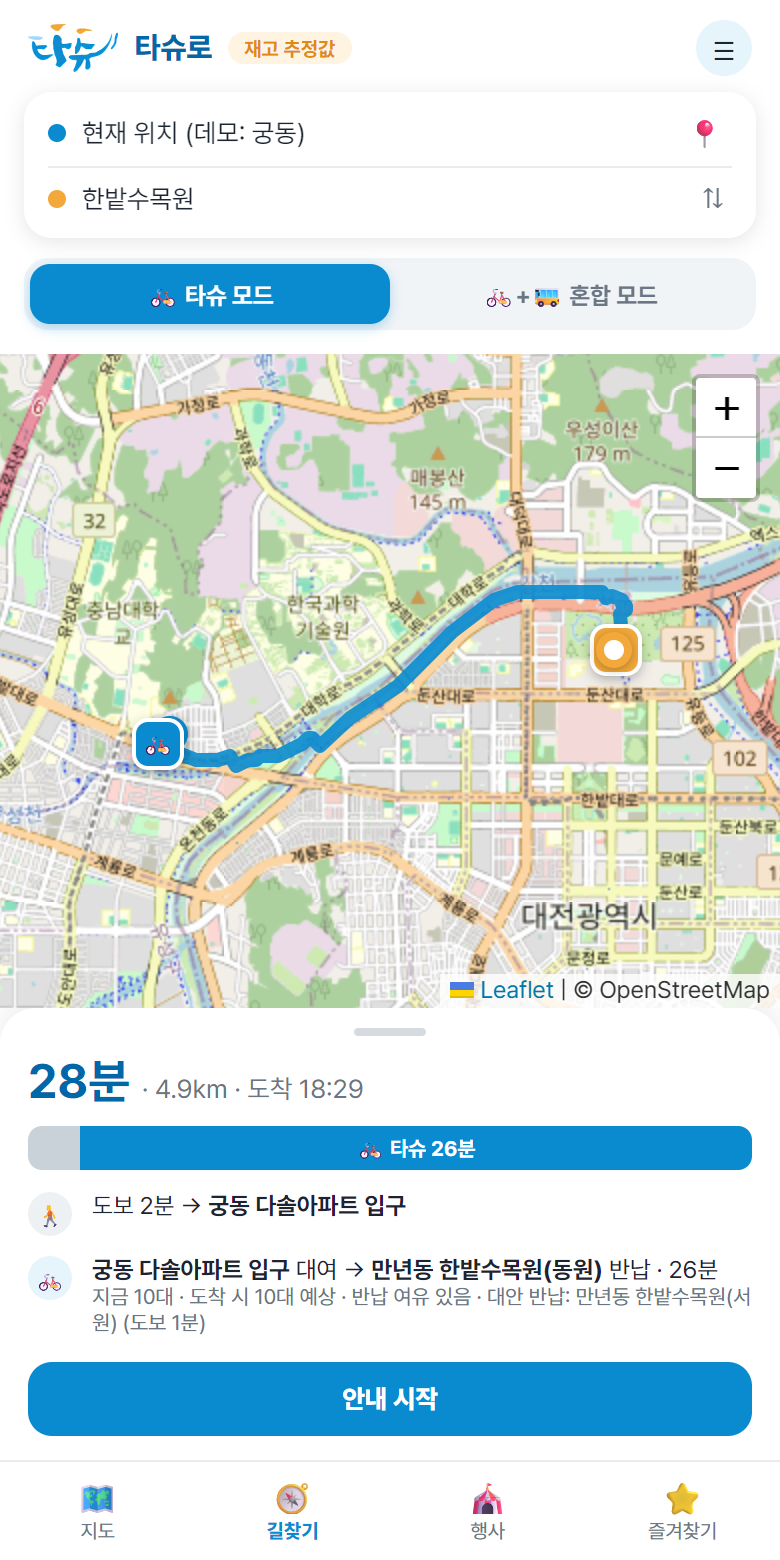
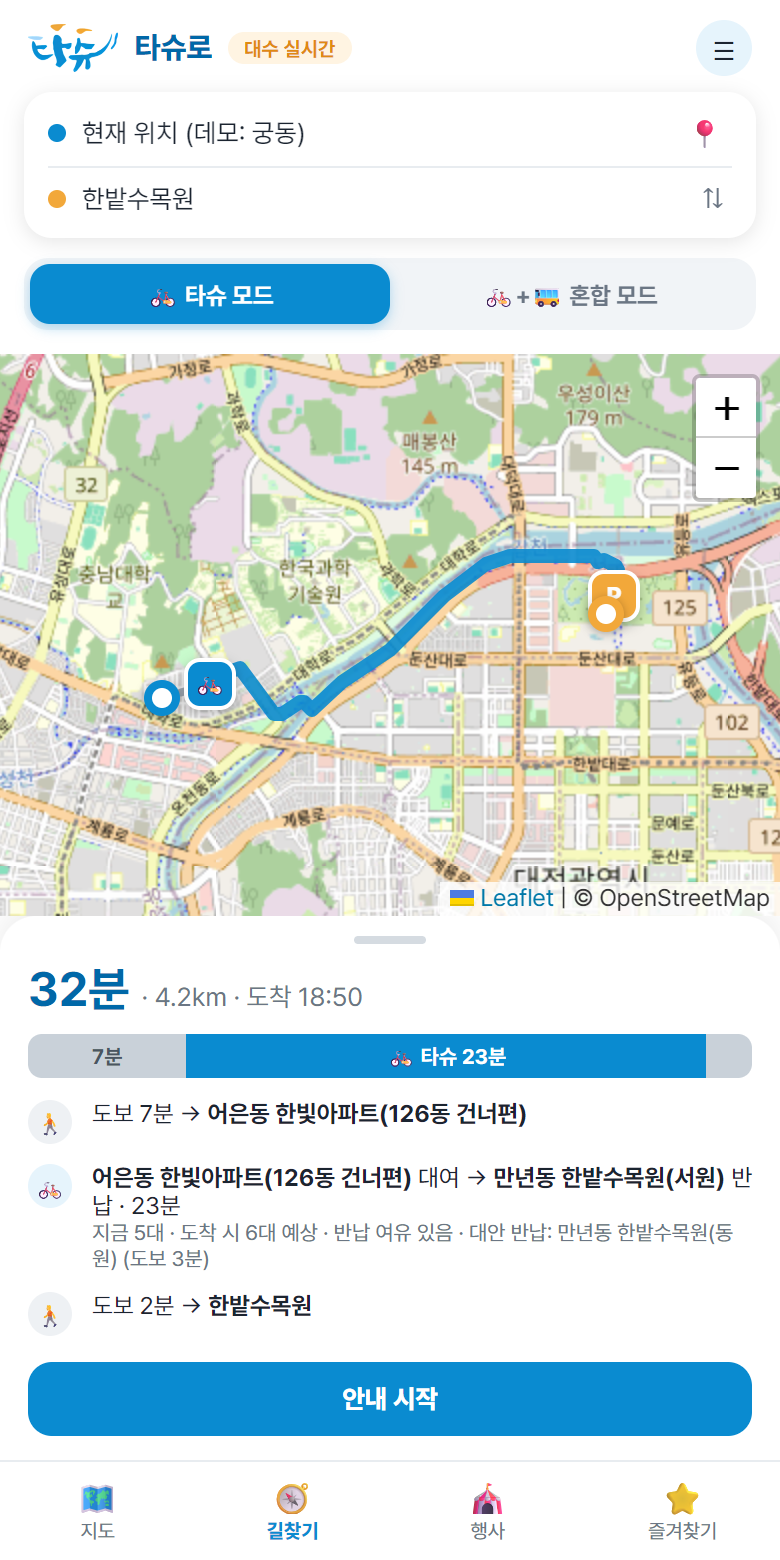
화면 사진을 실시간 상태로 다시 찍고 README 수정, 서버 오류 응답 시 꺼지는 문제 고침
- 타슈 API 키와 버스 도착정보를 연결한 서버에서 화면 사진 8장을 다시 찍음
  (대수 실시간 표시, 혼합 모드 버스 단계 실시간 표시)
- README: 사진 설명과 혼합 모드 시간(55분/49분)을 새 사진에 맞게 수정, 서버 오류 처리 설명 추가
- server.js: 버스·타슈 서버 호출이 실패하면 헤더를 두 번 보내려다 서버가 꺼지던 문제 수정
  (결과를 먼저 받은 뒤 200 헤더를 보내도록 순서 변경)

diff --git a/server.js b/server.js
@@ -64,14 +64,14 @@ http.createServer(async (req, res) => {
     res.setHeader('content-type', 'application/json;charset=utf-8');
     if (!/^\d{5,9}$/.test(stop)) { res.writeHead(400); return res.end('{"error":"bad stop"}'); }
     if (!rawKey) { res.writeHead(503); return res.end('{"error":"no key"}'); }
-    try { res.writeHead(200); res.end(JSON.stringify(await arrivals(stop))); }
+    try { const body = JSON.stringify(await arrivals(stop)); res.writeHead(200); res.end(body); }   // 먼저 결과를 받은 뒤에 헤더를 보낸다(실패 시 502를 보내기 위해)
     catch (e) { res.writeHead(502); res.end(JSON.stringify({ error: e.message })); }
     return;
   }
   if (url.pathname === '/api/stations') {
     res.setHeader('content-type', 'application/json;charset=utf-8');
     if (!tashuKey) { res.writeHead(503); return res.end('{"error":"no key"}'); }
-    try { res.writeHead(200); res.end(JSON.stringify(await tashuStations())); }
+    try { const body = JSON.stringify(await tashuStations()); res.writeHead(200); res.end(body); }
     catch (e) { res.writeHead(502); res.end(JSON.stringify({ error: e.message })); }
     return;
   }

diff --git a/README.md b/README.md
@@ -79,7 +79,8 @@
 아래 사진은 `node server.js`로 서버를 실행한 뒤, 실제 화면을 휴대폰 크기(가로 390px)로 찍은 것입니다.
 출발지는 위치 권한이 없을 때 쓰는 "데모 위치(궁동)"입니다.
 화면 위쪽의 표시는 남은 자전거 수가 어디서 왔는지 알려 줍니다. "재고 추정값"은 추정한 값이고, "대수 실시간"은 타슈 Open API에서 받은 값입니다.
-아래 사진은 타슈 API 키를 연결하기 전에 찍어서 "재고 추정값"으로 나옵니다.
+아래 사진은 타슈 API 키와 버스 도착정보 키를 연결한 서버에서 찍었습니다. 그래서 화면 위쪽에 "대수 실시간"이 나오고, 혼합 모드의 버스 단계에는 "실시간"이 붙습니다.
+핀의 숫자와 대여소 목록의 대수는 사진을 찍은 시각의 실제 값이라, 서버를 직접 실행해 보면 다르게 보입니다. 행사 화면의 일정과 준비 대수만 예시입니다.
 
 아래쪽에는 항상 탭 4개가 있습니다: 지도, 길찾기, 행사, 즐겨찾기.
 
@@ -126,7 +127,7 @@
 
 ### 3-4. 모드 2: 혼합 모드 (타슈와 버스 같이 타기)
 
-<img src="assets/screens/04-mixed-mode.png" width="300" alt="혼합 모드: 버스만 58분, 타슈와 버스 50분">
+<img src="assets/screens/04-mixed-mode.png" width="300" alt="혼합 모드: 버스만 55분, 타슈와 버스 49분">
 
 흐름은 이렇습니다.
 
@@ -134,7 +135,7 @@
 출발지 -> (타슈) -> 정류장 -> (버스) -> 목적지 근처 -> (걷기나 타슈) -> 목적지
 ```
 
-- 위쪽에 "버스만 이용"과 "타슈+버스"의 시간이 나란히 나옵니다. 위 사진에서는 58분과 50분입니다.
+- 위쪽에 "버스만 이용"과 "타슈+버스"의 시간이 나란히 나옵니다. 위 사진에서는 55분과 49분입니다.
 - 혼합이 3분 이상 빠를 때만 추천합니다. 그보다 차이가 작으면 "버스만 이용하는 편이 좋아요"라고 알려 줍니다.
 - 버스 단계에는 "실시간" 또는 "추정" 표시가 붙습니다. 실시간은 대전시 버스 도착정보에서 가져온 시간이고, 추정은 배차 간격으로 계산한 값입니다.
 - 이 모드에서 타슈로 바꾸는 경우는 두 가지입니다.
@@ -307,6 +308,7 @@
 - `/api/stations` 요청을 받아 타슈 대여소별 남은 자전거 수를 대신 가져옵니다. 응답이 여러 쪽으로 나뉘면 같은 서버의 다음 쪽만 따라가고, 위도와 경도가 뒤바뀌어 와도 값의 범위를 보고 바로잡습니다. 키가 없으면 503을 돌려주고, 이때 앱은 추정값을 씁니다.
 - 같은 정류소(버스)는 15초, 대여소 현황은 30초 안에 다시 조회하면 저장해 둔 결과를 줍니다. 호출 한도를 아끼기 위해서입니다.
 - 인증키는 응답에 담지 않고 서버 밖으로 보내지 않습니다.
+- 버스나 타슈 서버가 응답하지 않으면 502 오류를 돌려줄 뿐, 서버가 꺼지지는 않습니다. 이때 앱은 해당 값만 추정으로 바꿔 계속 동작합니다.
 
 ---
 
